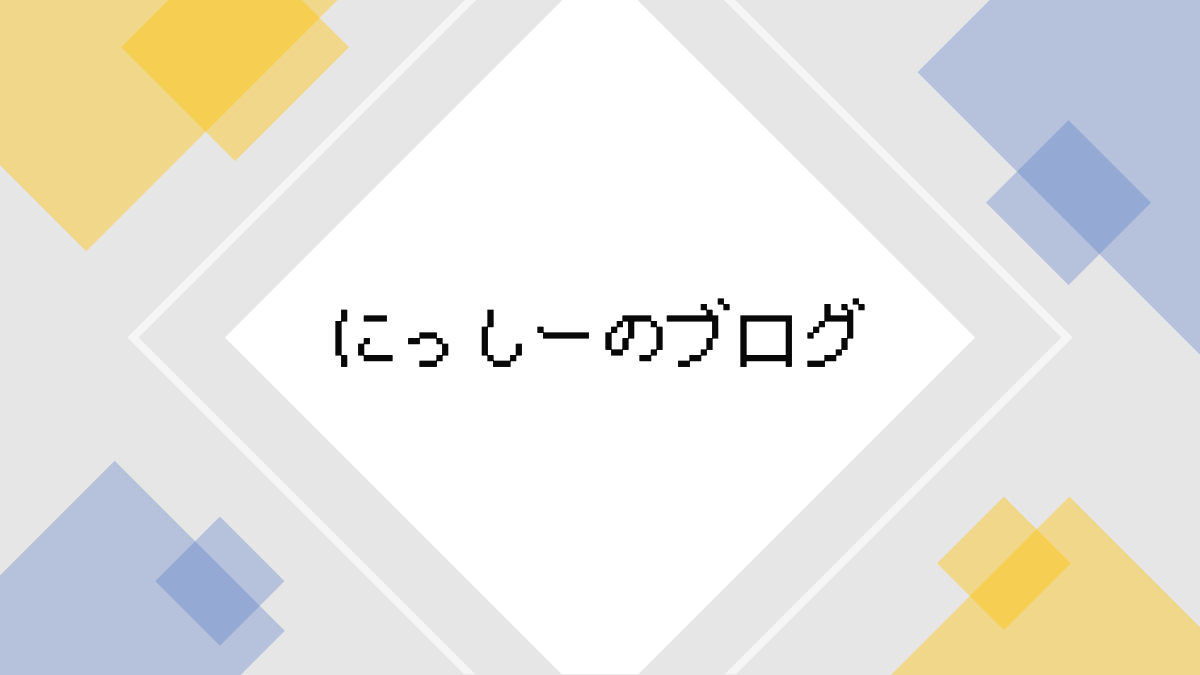
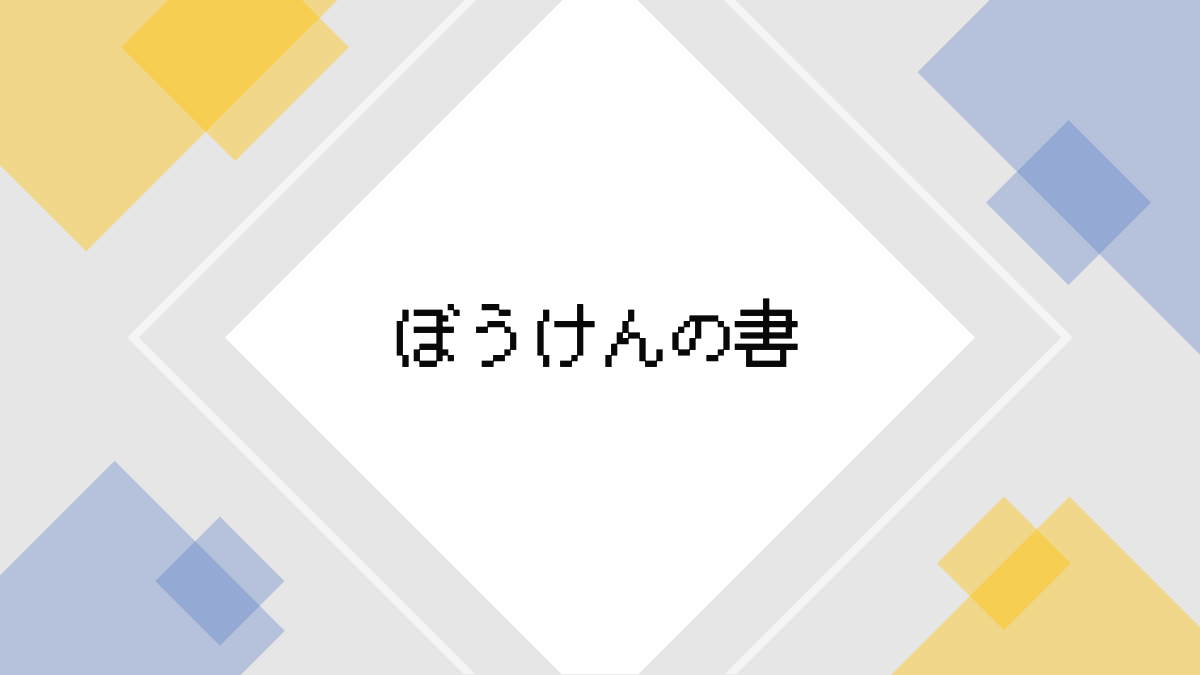
fix

Changed region(s): [[0.2775, 0.4356, 0.74, 0.56]]

diff --git a/pages/blog/_slug.vue b/pages/blog/_slug.vue
@@ -6,7 +6,7 @@
         <p>{{ post.tag }}</p>
       </div>
     </div>
-    <nuxt-content :document="post" />
+    <div v-html="post.html"></div>
     <div>
       <NuxtLink class="blog-link-to-top" to="/blog">
         <p>{{ '一覧へ戻る' }}</p>
@@ -43,16 +43,29 @@
 .nuxt-content img {
   width: 100%;
 }
+.nuxt-content a:link { color: #0000ff; }
+.nuxt-content a:visited { color: #000080; }
+.nuxt-content a:hover { color: #ff0000; }
+.nuxt-content a:active { color: #ff8000; }
 </style>
 
-<script lang="ts">
+<script>
 import { Vue } from 'nuxt-property-decorator'
-import { Context } from '@nuxt/types'
+
+const fm = require("front-matter")
+const md = require("markdown-it")({
+  html: true,
+  linkify: true,
+  breaks: false,
+})
 
 export default Vue.extend({
-  async asyncData({ $content, params, error }: Context) {
+  async asyncData({ $content, params, error }) {
     const query = $content('articles', params.slug)
     const post = await query.fetch()
+    const fileContent = await import(`../../content/articles/${params.slug}.md`);
+    const res = fm(fileContent.default);
+    post.html = md.render(res.body);
     return { post, error }
   },
   head() {
@@ -62,7 +75,7 @@ export default Vue.extend({
         {
           hid: 'description',
           name: 'description',
-          content: this.$data.post.title + ' | にっしーのブログ',
+          content: this.$data.post.title + ' | ぼうけんの書',
         },
         { hid: 'og:type', property: 'og:type', content: 'article' },
         {
@@ -73,7 +86,7 @@ export default Vue.extend({
         {
           hid: 'og:description',
           property: 'og:description',
-          content: this.$data.post.title + ' | にっしーのブログ',
+          content: this.$data.post.title + ' | ぼうけんの書',
         },
         {
           hid: 'og:url',

diff --git a/pages/blog/index.vue b/pages/blog/index.vue
@@ -11,7 +11,7 @@
               :src="article.body.children[0].children[0].props.src"
             />
             <h2>{{ article.title }}</h2>
-            <p>{{ date(article.createdAt) }} | {{ article.readingTime }}</p>
+            <p>{{ article.createdAt }} | {{ article.readingTime }}</p>
           </div>
         </NuxtLink>
       </li>
@@ -51,15 +51,14 @@
 </style>
 
 <script lang="ts">
-import { Vue, Component } from 'nuxt-property-decorator'
+import { Vue } from 'vue-property-decorator'
 import { Context } from '@nuxt/types'
 import dayjs from 'dayjs'
 
-@Component
-export default class BlogList extends Vue {
+export default Vue.extend({
   head() {
     return {
-      title: 'にっしーのブログ',
+      title: 'ぼうけんの書',
       meta: [
         {
           hid: 'description',
@@ -67,7 +66,7 @@ export default class BlogList extends Vue {
           content: '徒然なるままに日暮らす',
         },
         { hid: 'og:type', property: 'og:type', content: 'article' },
-        { hid: 'og:title', property: 'og:title', content: 'にっしーのブログ' },
+        { hid: 'og:title', property: 'og:title', content: 'ぼうけんの書' },
         {
           hid: 'og:description',
           property: 'og:description',
@@ -85,20 +84,19 @@ export default class BlogList extends Vue {
         },
       ],
     }
-  }
+  },
 
   async asyncData({ $content, params, error }: Context) {
     const articles = await $content('articles', params.slug)
       .sortBy('createdAt', 'asc')
       .fetch()
+    articles.map((item: any) => {
+      item.createdAt = dayjs(item.createdAt).format('YYYY/MM/DD')
+    })
     return {
       articles,
       error,
     }
   }
-
-  date(createdAt: Date) {
-    return dayjs(createdAt).format('YYYY/MM/DD')
-  }
-}
+})
 </script>

diff --git a/nuxt.config.js b/nuxt.config.js
@@ -154,7 +154,14 @@ export default {
     '@nuxtjs/pwa',
     '@nuxtjs/dotenv',
     '@nuxt/content',
+    '@nuxtjs/markdownit',
   ],
+
+  markdownit: {
+    preset: 'default',
+    linkify: true,
+    breaks: true
+  },
 
   hooks: {
     'generate:page': (page) => {
@@ -179,5 +186,11 @@ export default {
   build: {
     analyze: false,
     parallel: true,
+    extend(config, _ctx) {
+      config.module.rules.push({
+        test: /\.md$/,
+        use: ['raw-loader']
+      });
+    }
   },
 }
